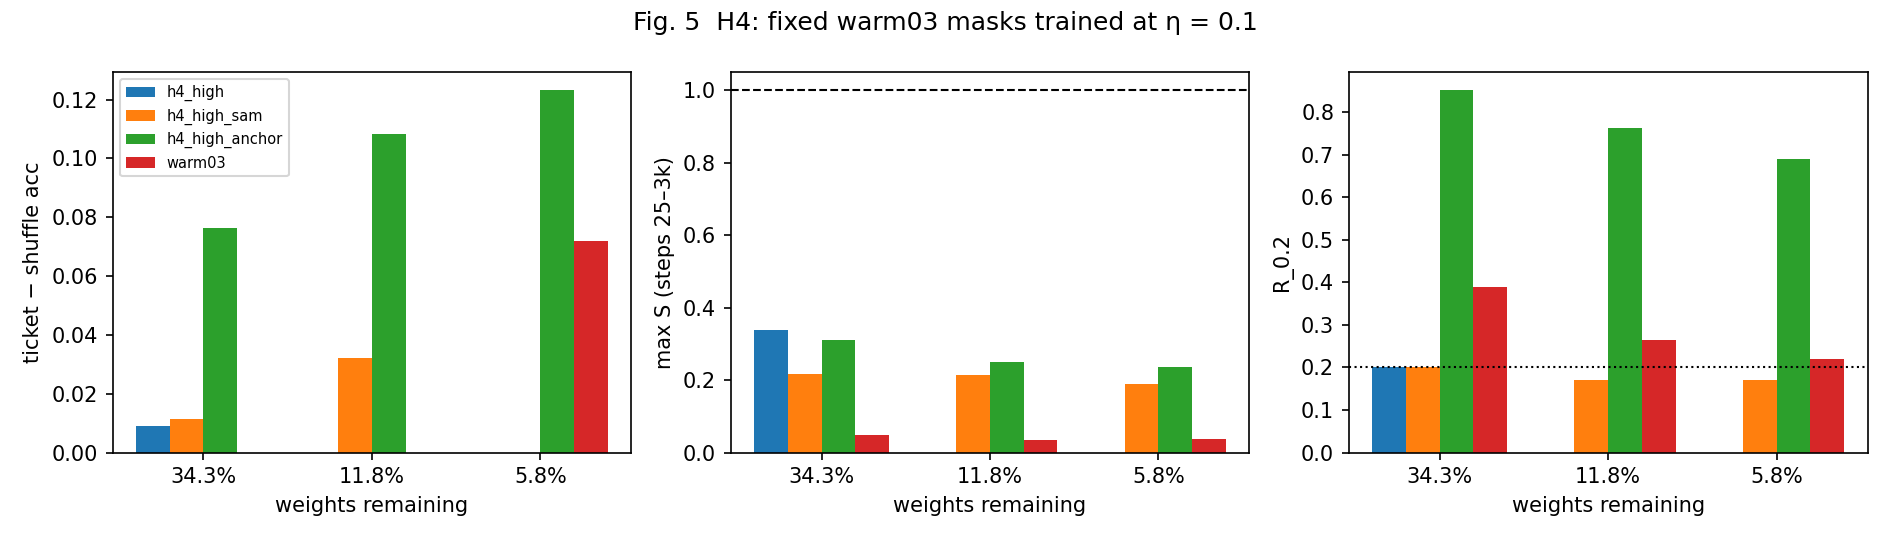
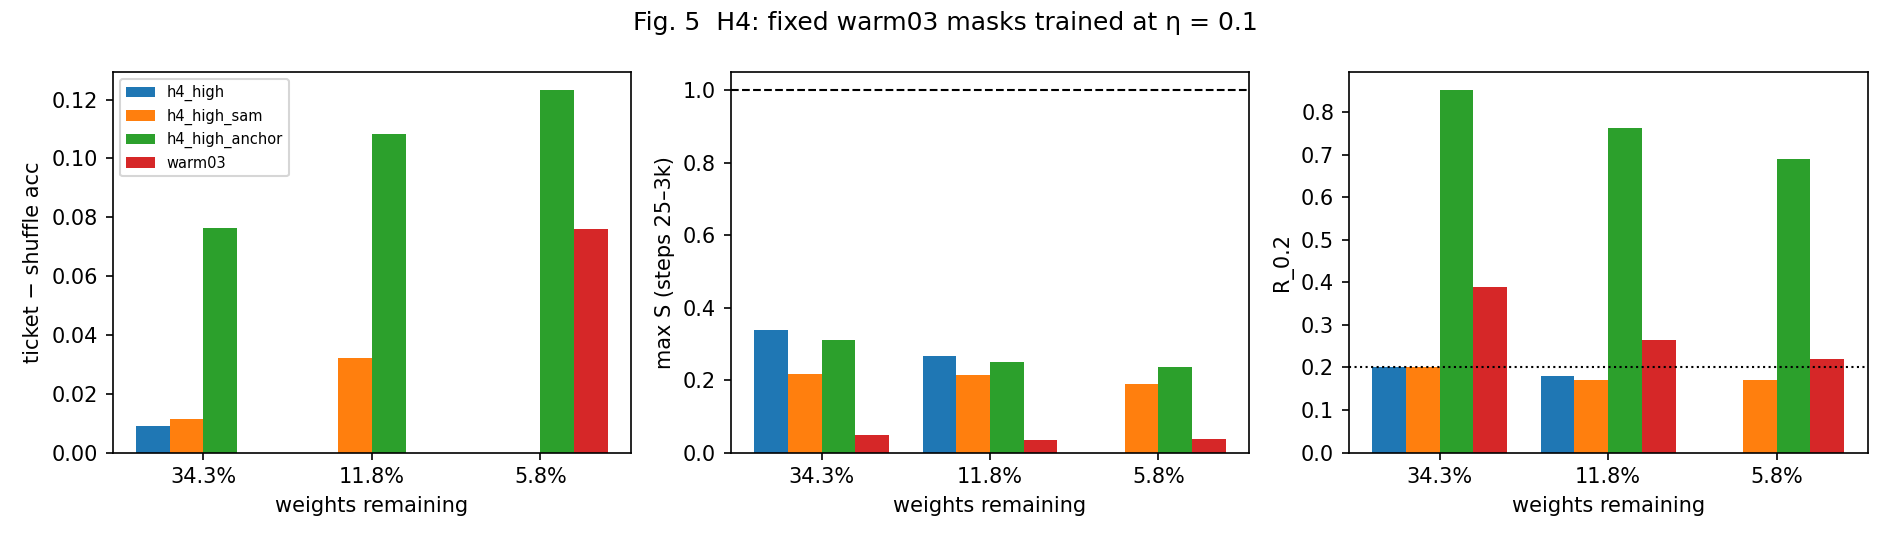
Autosave 15:18 UTC: chain logs, analysis outputs, notes

Changed region(s): [[0.4683, 0.6519, 0.5307, 0.8593], [0.8116, 0.6815, 0.8429, 0.8593], [0.281, 0.4148, 0.3434, 0.4444]]

diff --git a/results/h4_results.md b/results/h4_results.md
@@ -5,7 +5,7 @@ Test accuracy %, ticket / shuffle / advantage (pp).
 | Mask | (a) plain | (b) SAM | (c) anchor |
 |---|---|---|---|
 | 34.5% | 89.27 / 88.38 / +0.89 | 89.29 / 88.14 / +1.15 | 85.64 / 78.01 / +7.63 |
-| 12.0% | — / — / — | 88.86 / 85.64 / +3.22 | 86.19 / 75.36 / +10.83 |
+| 12.0% | 88.91 / — / — | 88.86 / 85.64 / +3.22 | 86.19 / 75.36 / +10.83 |
 | 6.0% | — / — / — | 87.50 / — / — | 84.44 / 72.12 / +12.32 |
 
 Tickets: max S(25–3k) / S(0) / R_0.2 at 3k / R_0.2 final, for (a) | (b) | (c).
@@ -13,7 +13,7 @@ Tickets: max S(25–3k) / S(0) / R_0.2 at 3k / R_0.2 final, for (a) | (b) | (c).
 | Mask | (a) plain | (b) SAM | (c) anchor |
 |---|---|---|---|
 | 34.5% | 0.339 / 0.695 / 0.298 / 0.202 | 0.218 / 0.695 / 0.299 / 0.200 | 0.311 / 0.695 / 0.752 / 0.851 |
-| 12.0% | — / — / — / — | 0.214 / 0.344 / 0.212 / 0.171 | 0.249 / 0.344 / 0.630 / 0.762 |
+| 12.0% | 0.267 / 0.344 / 0.224 / 0.179 | 0.214 / 0.344 / 0.212 / 0.171 | 0.249 / 0.344 / 0.630 / 0.762 |
 | 6.0% | — / — / — / — | 0.190 / 0.214 / 0.213 / 0.171 | 0.237 / 0.214 / 0.539 / 0.689 |
 
 Anchor lam chosen: 0.01 (R_0.2 at 3k: lam 0.001 → 0.479, lam 0.01 → 0.757; target 0.661; reached: True).
@@ -22,4 +22,4 @@ Anchor lam chosen: 0.01 (R_0.2 at 3k: lam 0.001 → 0.479, lam 0.01 → 0.757; t
 
 - **(a) h4_high**: pending (0/1 masks ≥ +2.0 pp so far)
 - **(b) h4_high_sam**: pending (1/2 masks ≥ +2.0 pp so far)
-- **(c) h4_high_anchor**: rescues (3/3 masks ≥ +2.0 pp; R02_3k higher than (a) at 1/1 masks)
+- **(c) h4_high_anchor**: rescues (3/3 masks ≥ +2.0 pp; R02_3k higher than (a) at 2/2 masks)
